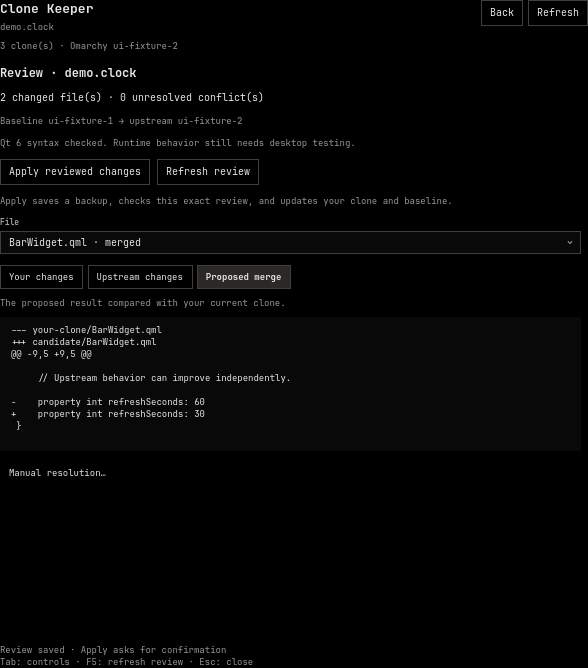
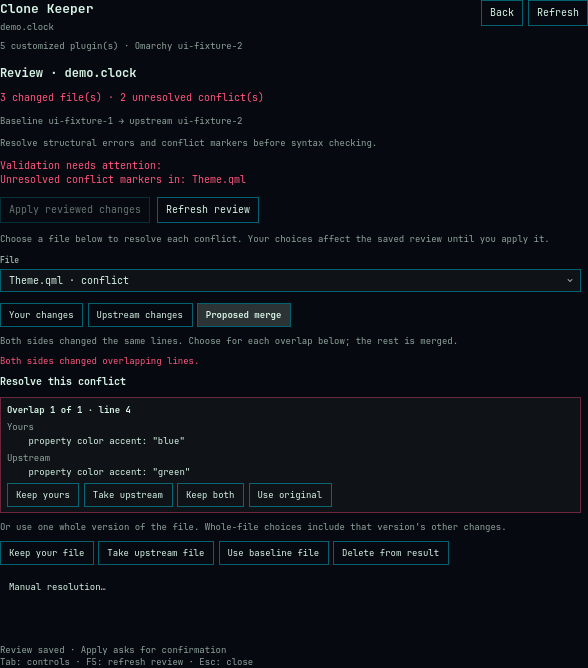
Read clonedFromVersion and prepare the public release
Clones can record the release they were copied from; treat it as clone
identity and prefer it to pacman's log when finding an original. Point
installation at the GitHub repository, refresh the screenshots, add the
marketplace preview, and bring the release notes and submission draft
up to date with the current marketplace process.

diff --git a/KeeperClones.qml b/KeeperClones.qml
@@ -188,7 +188,9 @@ Column {
               var item = originCard.candidate
               if (!item) return ""
               var lines = []
-              if (item.timelineMatch) lines.push("This release was installed when the clone was created.")
+              if (item.timelineMatch) lines.push(originCard.origins && originCard.origins.versionSource === "manifest"
+                ? "The clone records that it was made from this release."
+                : "This release was installed when the clone was created.")
               lines.push(item.unchangedFiles + " of " + item.files + " files still match it exactly.")
               if (item.changedFiles.length > 0)
                 lines.push("Your changes: " + item.changedFiles.slice(0, 4).join(", ")

diff --git a/clone_keeper/origins.py b/clone_keeper/origins.py
@@ -288,7 +288,10 @@ class Origins:
         identity = clone_identity(value)
         timeline = pacman_timeline(self.pacman_log)
         created = birth_time(path)
-        expected = version_at(timeline, created) if created and timeline else None
+        # Omarchy can record the release a clone came from; prefer it to pacman's log.
+        info = value.get("omarchy") if isinstance(value.get("omarchy"), dict) else {}
+        recorded = info.get("clonedFromVersion") if isinstance(info.get("clonedFromVersion"), str) else None
+        expected = recorded or (version_at(timeline, created) if created and timeline else None)
         groups, trees, problems = {}, {}, []
         for releases, original in self._originals(source_id, extra, packages, problems):
             try:
@@ -314,11 +317,12 @@ class Origins:
             candidates[0]["suggested"] = True
         if expected and not any(item["timelineMatch"] for item in candidates):
             problems.append({"path": str(self.package_cache),
-                             "message": f"Omarchy {expected} was installed when this clone was created, but its "
-                                        "source is not available here. Supply that release's tree or package."})
+                             "message": f"This clone was made from Omarchy {expected}, but that release's source "
+                                        "is not available here. Supply its tree or package."})
         return ({"cloneId": clone_id, "sourceId": source_id, "clonePath": str(path),
                  "cloneCreatedAt": created.isoformat() if created else None,
-                 "installedAtCreation": expected, "candidates": candidates, "errors": problems}, trees)
+                 "installedAtCreation": expected, "versionSource": "manifest" if recorded else "pacman-log" if expected else None,
+                 "candidates": candidates, "errors": problems}, trees)
 
     def exact(self, clone_id: str):
         """A recorded release this clone is byte-identical to, without reading packages.
@@ -343,6 +347,7 @@ class Origins:
             raise KeeperError("That release's source no longer matches the reviewed candidate; look again")
         evidence = {"versions": chosen["versions"], "releases": chosen["releases"],
                     "cloneCreatedAt": found["cloneCreatedAt"], "installedAtCreation": found["installedAtCreation"],
+                    "versionSource": found["versionSource"],
                     "timelineMatch": chosen["timelineMatch"], "unchangedFiles": chosen["unchangedFiles"],
                     "changedFiles": chosen["changedFiles"]}
         return trees[chosen["baselineHash"]], evidence

diff --git a/tests/test_origins.py b/tests/test_origins.py
@@ -106,6 +106,18 @@ class OriginTests(unittest.TestCase):
         self.assertEqual(supplied["releases"][0]["kind"], "supplied")
         self.assertEqual(supplied["changedLines"], 2)
 
+    def test_recorded_clone_version_outranks_creation_time(self):
+        # A newer clone command records the source release in the manifest.
+        manifest_path = self.clone / "manifest.json"
+        value = test_cli.json.loads(manifest_path.read_text())
+        value["omarchy"]["clonedFromVersion"] = "4.0.0-1"
+        manifest_path.write_text(test_cli.json.dumps(value))
+        self.write_log([])
+        found = self.origins()
+        self.assertEqual((found["installedAtCreation"], found["versionSource"]), ("4.0.0-1", "manifest"))
+        self.assertTrue(found["candidates"][0]["timelineMatch"])
+        self.assertTrue(found["candidates"][0].get("suggested"))
+
     def test_rejects_unreadable_search_paths(self):
         self.origins("--search", self.root / "missing", success=False)
 
@@ -188,6 +200,17 @@ class SyncTests(unittest.TestCase):
         result = self.cli("sync")
         self.assertEqual(result["tracked"], [])
         self.assertTrue(any("integrity" in error["message"] for error in result["errors"]), result)
+
+    def test_recorded_clone_version_is_not_an_edit(self):
+        manifest_path = self.clone / "manifest.json"
+        value = test_cli.json.loads(manifest_path.read_text())
+        value["omarchy"]["clonedFromVersion"] = "4.0.1"
+        manifest_path.write_text(test_cli.json.dumps(value))
+        self.assertEqual(self.cli("sync")["tracked"], [CLONE_ID])
+        self.upgrade("4.0.2")
+        preview = self.preview()
+        self.assertEqual([change["path"] for change in preview["changes"]], ["BarWidget.qml"])
+        self.assertIn('"clonedFromVersion"', (self.clone / "manifest.json").read_text())
 
     def test_concurrent_sync_is_skipped(self):
         import fcntl, os

diff --git a/clone_keeper/core.py b/clone_keeper/core.py
@@ -288,6 +288,10 @@ def clone_identity(value: dict) -> dict:
     identity = {"id": value["id"], "name": value.get("name", value["id"])}
     if isinstance(value.get("barWidget"), dict) and "displayName" in value["barWidget"]:
         identity["displayName"] = value["barWidget"]["displayName"]
+    # Recorded by Omarchy's clone command: part of the clone, not an edit to it.
+    info = value.get("omarchy")
+    if isinstance(info, dict) and isinstance(info.get("clonedFromVersion"), str):
+        identity["clonedFromVersion"] = info["clonedFromVersion"]
     return identity
 
 
@@ -303,6 +307,8 @@ def as_clone(source: Tree, identity: dict, source_id: str) -> Tree:
     if not isinstance(value.get("omarchy"), dict):
         value["omarchy"] = {}
     value["omarchy"]["clonedFrom"] = source_id
+    if "clonedFromVersion" in identity:
+        value["omarchy"]["clonedFromVersion"] = identity["clonedFromVersion"]
     value["omarchy"].pop("clonePaths", None)
     result["manifest.json"] = File(json_bytes(value), result["manifest.json"].mode)
     return result

diff --git a/clone_keeper/cli.py b/clone_keeper/cli.py
@@ -144,9 +144,12 @@ def human(result, command):
     elif command == "dismiss":
         print(f"Dismissed {len(result['dismissed'])} recorded operation(s).")
     elif command == "origins":
-        when = result["cloneCreatedAt"] or "an unrecorded time"
-        print(f"{result['cloneId']} was created {when}"
-              + (f", while Omarchy {result['installedAtCreation']} was installed." if result["installedAtCreation"] else "."))
+        if result["versionSource"] == "manifest":
+            print(f"{result['cloneId']} records that it was cloned from Omarchy {result['installedAtCreation']}.")
+        else:
+            when = result["cloneCreatedAt"] or "an unrecorded time"
+            print(f"{result['cloneId']} was created {when}"
+                  + (f", while Omarchy {result['installedAtCreation']} was installed." if result["installedAtCreation"] else "."))
         if not result["candidates"]:
             print("No release on this machine contains its source.")
         for item in result["candidates"]:

diff --git a/clone_keeper/service.py b/clone_keeper/service.py
@@ -251,7 +251,8 @@ class Workflow:
                 raise KeeperError(f"Unknown built-in source: {source_id}")
             original = source.materialize()
             name = "My " + manifest(original).get("name", source_id)
-            identity = {"id": clone_id, "name": name, "displayName": name}
+            identity = {"id": clone_id, "name": name, "displayName": name,
+                        "clonedFromVersion": self.keeper.version()}
             baseline = as_clone(original, identity, source_id)
             errors = validate_candidate(baseline, clone_id, source_id)
             if errors:

diff --git a/docs/RELEASE.md b/docs/RELEASE.md
@@ -41,23 +41,29 @@ popup, compositor, and installation lifecycle checks. Record findings in VALIDAT
 6. Review and submit the marketplace issue below; track its outcome rather than
    equating submission with approval.
 
-Current guidance was checked on 2026-09-22:
+Current guidance was checked on 2026-10-17:
 [Submission guide](https://github.com/omacom/omarchy-plugin-marketplace/blob/main/SUBMISSION.md)
 and [security model](https://github.com/omacom/omarchy-plugin-marketplace/blob/main/SECURITY.md).
-The catalog requires a public GitHub repository, one root manifest, license and
-dependency documentation, installation/removal instructions and a unique ID.
-The proposed category is System, with tags system and quickshell.
-An optional preview must meet the guide's current image limits.
+The marketplace is published at https://plugins.omarchy.org (moved there on
+2026-08-30). It requires a public GitHub repository root, one root manifest, a root
+README with installation and removal, a root license, documented dependencies and a
+globally unique, permanent ID; `neil.clone-keeper` matches the owner's existing
+`neil.*` listings and is unused. An optional root `preview.png` is processed by the
+marketplace. Submissions get compatibility validation and an automated static
+security baseline on the exact commit, then maintainer approval
+(`approved-and-verified`). Neither is a security review. Updates to a listing go
+through the Plugin verification issue form with the new full commit SHA.
 
-## Marketplace issue draft
+## Marketplace issue
 
-Target: omacom/omarchy-plugin-marketplace  
+Target: omacom/omarchy-plugin-marketplace
 Title: [Plugin]: Clone Keeper
 
-The URL below is proposed, not currently live. Check each statement against the
-published repository before submitting; the owner must attest to ownership and
-submission rights. The blank checklist is intentional until that review.
+The body follows SUBMISSION.md exactly: six headings in order, one category, one to
+three allowed tags, and the five checklist statements, checked only after the owner
+confirms each one.
 
+```markdown
 ### Repository URL
 
 https://github.com/neilofneils404/clone-keeper
@@ -76,20 +82,11 @@ _No response_
 
 ### Maintainer notes
 
-Clone Keeper maintains customized copies of Omarchy built-in plugins. It records
-their original source, prepares persistent three-way reviews, supports explicit
-conflict resolution, and applies the reviewed result with backups, undo and crash
-recovery. New clones are disabled until explicitly enabled.
+Clone Keeper keeps customized copies of Omarchy built-in plugins up to date. It records each clone's original source, merges newer built-ins with the owner's edits in a reviewed three-way merge with per-conflict choices, and applies the confirmed result atomically with backups, undo and crash recovery. It can find an existing clone's original among Omarchy releases on the machine (installed tree, pacman cache), and it also updates git-installed plugins the owner has edited, which `omarchy plugin update` refuses.
 
-The root manifest declares one bar widget. The bundled Python CLI requires Linux,
-Python 3.11+ and Git; Qt 6 qmllint is optional for candidate syntax checking.
-There are no Python runtime packages, network requests or privileged operations.
-Apply and undo affect only the selected clone and its own recorded state.
-Activation uses supported Omarchy shell IPC after an explicit action.
-Backups and saved reviews stay local and are retained until deliberately removed.
+The root manifest declares one bar widget. A bundled Python CLI needs Linux, Python 3.11+ and Git; Qt 6 qmllint is optional. No Python packages, sudo or background network access. Its only network request is `git fetch origin HEAD` for an edited git-installed plugin, when the owner chooses Check for updates. It never executes plugin code itself; after an apply to an enabled clone it restarts the shell through omarchy-restart-shell, reads the shell log and undoes the update if the clone failed to load. Optional hand-offs open the owner's editor or default coding agent on request. State, backups and saved reviews stay local until pruned on request.
 
-License: MIT. Independent community project. See README and docs/VALIDATION.md for
-installation, removal, exact tested behavior and current limitations.
+License: MIT. Independent community project. Tested on Omarchy 4.0.4; see README and docs/VALIDATION.md for exact tested behavior and limits.
 
 ### Submission checklist
 
@@ -98,3 +95,10 @@ installation, removal, exact tested behavior and current limitations.
 - [ ] I confirm that I own or have permission to submit this plugin and its preview assets.
 - [ ] The plugin does not overwrite user configuration without explicit consent.
 - [ ] I understand that approval is for listing and is not a security review.
+```
+
+## Upstream contribution
+
+A proposed change to basecamp/omarchy makes `omarchy plugin clone` record
+`omarchy.clonedFromVersion`, the Omarchy release a clone was copied from. Clone
+Keeper already reads it as clone identity and as origin evidence.

diff --git a/README.md b/README.md
@@ -54,9 +54,11 @@ tooltip says whether the update merges cleanly, and a notification tells you onc
 Turn notifications off with the widget's **Update notifications** setting.
 For the live plugin directory it also shows whether each clone is enabled in Omarchy.
 
-![Reviewing a proposed upstream change](docs/images/review.png)
+![Choosing for each overlapping change](docs/images/review.png)
 
-Actual panel content in a disposable synthetic fixture. This capture demonstrates
+![An existing clone's original found among installed releases](docs/images/origin.png)
+
+Actual panel content in a disposable synthetic fixture. These captures demonstrate
 the interface. Native installation and popup behavior were checked in a nested
 desktop pilot; see [validation](docs/VALIDATION.md) for its findings.
 
@@ -70,7 +72,13 @@ reviews report when it is unavailable. No Python packages or sudo are needed.
 Apply/undo require filesystem support for Linux `renameat2(RENAME_EXCHANGE)`;
 creation uses `RENAME_NOREPLACE`. Unsupported layouts fail before live replacement.
 
-Run directly from this checkout:
+Install with Omarchy's plugin installer:
+
+```bash
+omarchy plugin add https://github.com/neilofneils404/clone-keeper --enable
+```
+
+Or run directly from a checkout:
 
 ```bash
 ./bin/clone-keeper --help
@@ -78,7 +86,7 @@ Run directly from this checkout:
 python scripts/demo.py
 ```
 
-To install the **committed** local checkout with Omarchy's normal installer:
+To install a **committed** local checkout instead:
 
 ```bash
 omarchy plugin add /absolute/path/to/clone-keeper --enable
@@ -88,7 +96,7 @@ The plugin ID is `neil.clone-keeper`. Keep the entire repository together: the
 panel calls its bundled `bin/clone-keeper` and `clone_keeper/` module. The installer
 copies committed Git files; uncommitted development edits are not included.
 The installed CLI is `~/.config/omarchy/plugins/neil.clone-keeper/bin/clone-keeper`.
-Public installation instructions will use the GitHub URL once published.
+Update it with `omarchy plugin update neil.clone-keeper`.
 
 Remove through Omarchy:
 

diff --git a/docs/images/README.md b/docs/images/README.md
@@ -1,17 +1,19 @@
 # Interface screenshots
 
 These are unmodified captures of the actual Clone Keeper QML interface, rendered
-by `python scripts/smoke-ui.py --native-load`. The examples use disposable,
-synthetic Omarchy sources and plugin clones. They do not show an installed user
-plugin or represent a change to the live desktop.
+by `python scripts/smoke-ui.py`. The examples use disposable, synthetic Omarchy
+sources and plugin clones. They do not show an installed user plugin or represent
+a change to the live desktop.
 
-- **review.png:** A saved merge is ready to apply after a binary-file conflict
-  has been resolved. The selected `BarWidget.qml` comparison shows the proposed
-  upstream refresh-interval change; the fixture also preserves a local clock
-  format customization. Applying still requires explicit confirmation.
-- **create.png:** The tracked-clone creation form, populated from the synthetic
-  built-in plugin catalog. Newly created clones remain disabled until the user
-  explicitly enables them.
+- **review.png:** Both sides changed the same line of `Theme.qml`. The panel shows
+  your lines and upstream's for the overlap, with Keep yours, Take upstream, Keep
+  both and Use original; whole-file choices remain below. Applying still requires
+  explicit confirmation.
+- **origin.png:** An existing customized clone with no recorded baseline. The panel
+  found its original in a cached package of the release it came from and asks the
+  owner to confirm it.
+- **../../preview.png:** The marketplace preview: the one-click Update confirmation
+  for a clean merge, with the prepared review behind it.
 
 The images were captured in the current Omarchy theme. Colors, type size and
 spacing follow each user's theme and accessibility settings.

diff --git a/docs/DESIGN.md b/docs/DESIGN.md
@@ -74,7 +74,11 @@ members, into private scratch directories. Releases are materialized with the
 current clone rules, which match Omarchy 4.x.
 - applied-plan: a reviewed apply advances the ancestor to that plan's upstream.
 
-Version labels and modification times never establish ancestry. Repeated tracking
+Version labels and modification times never establish ancestry by themselves.
+Clones may carry omarchy.clonedFromVersion, the release Omarchy's clone command
+(and Clone Keeper's) copied them from. It is part of the clone's identity, like
+its ID and clonedFrom, and origin searches use it in place of pacman's log to
+rank candidates; the owner still confirms the original. Repeated tracking
 refuses to replace an existing record.
 
 Creation saves a verified baseline with creationPending=true, then publishes the

diff --git a/CHANGELOG.md b/CHANGELOG.md
@@ -7,6 +7,8 @@
   `origins` ranks them using pacman's log and the files that still match;
   `track --origin VERSION --expect HASH` records the confirmed one with its evidence.
 - The panel searches automatically for an untracked clone and offers the best match.
+- Clones record `omarchy.clonedFromVersion`; origin searches prefer it to pacman's
+  log, and it is treated as clone identity rather than an edit.
 - `sync` runs whenever the panel loads: it keeps each running release's built-in
   sources so they survive upgrades, and tracks clones identical to a recorded
   release, including clones made from Omarchy's own menu.
